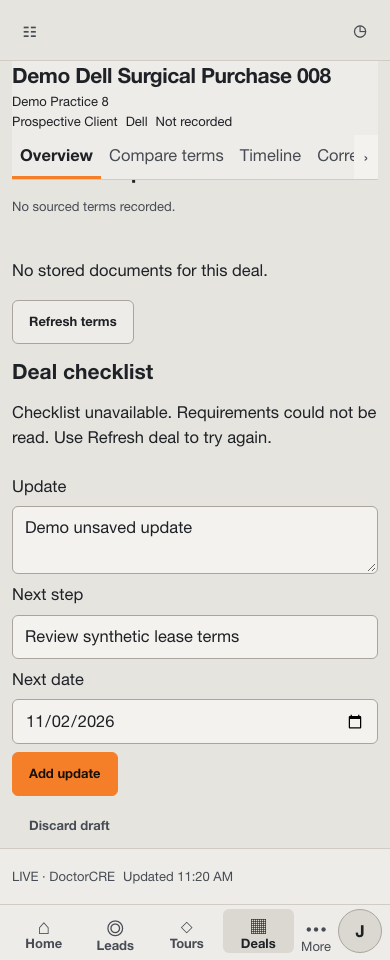
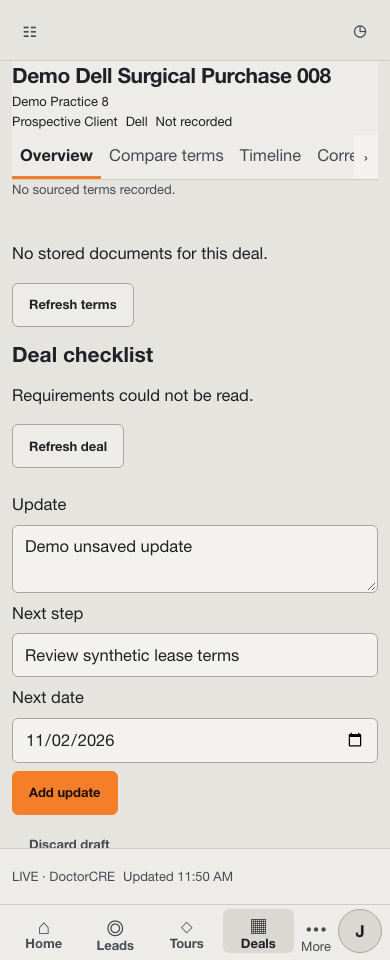
fix(checklist): put refresh recovery beside the failure
Reuse delegated refresh and focus restoration for the inline retry.

diff --git a/js/deal-checklist.js b/js/deal-checklist.js
@@ -5,17 +5,16 @@ const STATUS = { complete: 'Recorded complete', received: 'Received', not_record
 
 export function renderDealChecklist(checklist) {
   if (!checklist) return '';
-  if (checklist.template_state === 'unavailable') {
-    return '<section class="deal-checklist" aria-label="Deal checklist"><h3>Deal checklist</h3><p>Checklist unavailable. Requirements could not be read. Use Refresh deal to try again.</p></section>';
-  }
-  const unavailable = checklist.schema_version !== 'deal-checklist.v1';
-  if (unavailable || checklist.template_state === 'source_changed') {
-    return `<section class="deal-checklist" aria-label="Deal checklist"><h3>Deal checklist</h3><p>${unavailable ? 'Checklist unavailable.' : 'Checklist needs a doctrine review.'}</p></section>`;
+  const unavailable = checklist.template_state === 'unavailable';
+  const unsupported = checklist.schema_version !== 'deal-checklist.v1';
+  if (unavailable || unsupported || checklist.template_state === 'source_changed') {
+    const message = unavailable ? 'Requirements could not be read.' : unsupported ? 'Checklist unavailable.' : 'Checklist needs a doctrine review.';
+    return `<section class="deal-checklist" aria-label="Deal checklist"><h3>Deal checklist</h3><p role="status">${message}</p>${unavailable ? '<button class="btn" type="button" data-refresh-detail data-detail-focus="checklist">Refresh deal</button>' : ''}</section>`;
   }
   if (!checklist.phases.some(phase => phase.items.length)) return '';
   const due = checklist.due_items.length;
   const next = checklist.due_items[0];
-  return `<details class="deal-checklist"><summary><span>Deal checklist${due ? ` · ${due} due` : ''}</span>${next ? `<span class="checklist-next"><strong>${esc(next.label)}</strong><span>${esc(STATUS[next.status])} · <time datetime="${esc(next.due_on)}">${esc(dateCaption(next.due_on))}</time></span></span>` : ''}</summary>
+  return `<details class="deal-checklist"><summary data-detail-focus="checklist"><span>Deal checklist${due ? ` · ${due} due` : ''}</span>${next ? `<span class="checklist-next"><strong>${esc(next.label)}</strong><span>${esc(STATUS[next.status])} · <time datetime="${esc(next.due_on)}">${esc(dateCaption(next.due_on))}</time></span></span>` : ''}</summary>
     ${checklist.template_state === 'deal_type_unknown' ? '<p>Confirm the deal type to see its full checklist.</p>' : ''}
     ${checklist.phases.map(phase => `<section><h3>${esc(phase.label)}</h3><ul>${phase.items.map(item => `<li data-checklist-item="${esc(item.id)}" data-state="${esc(item.status)}"><span>${esc(item.label)}</span><strong>${esc(STATUS[item.status] || 'Not recorded')}</strong>${item.due_on ? `<time datetime="${esc(item.due_on)}">${esc(dateCaption(item.due_on))}</time>` : ''}<details><summary>Evidence and source</summary><p>${esc(item.evidence_ref || 'No completion evidence recorded.')}</p><p>${esc(item.source.document || item.source.request || item.source.record_verb)}${item.source.version ? ` · version ${esc(item.source.version)}` : ''}</p></details></li>`).join('')}</ul></section>`).join('')}
   </details>`;
